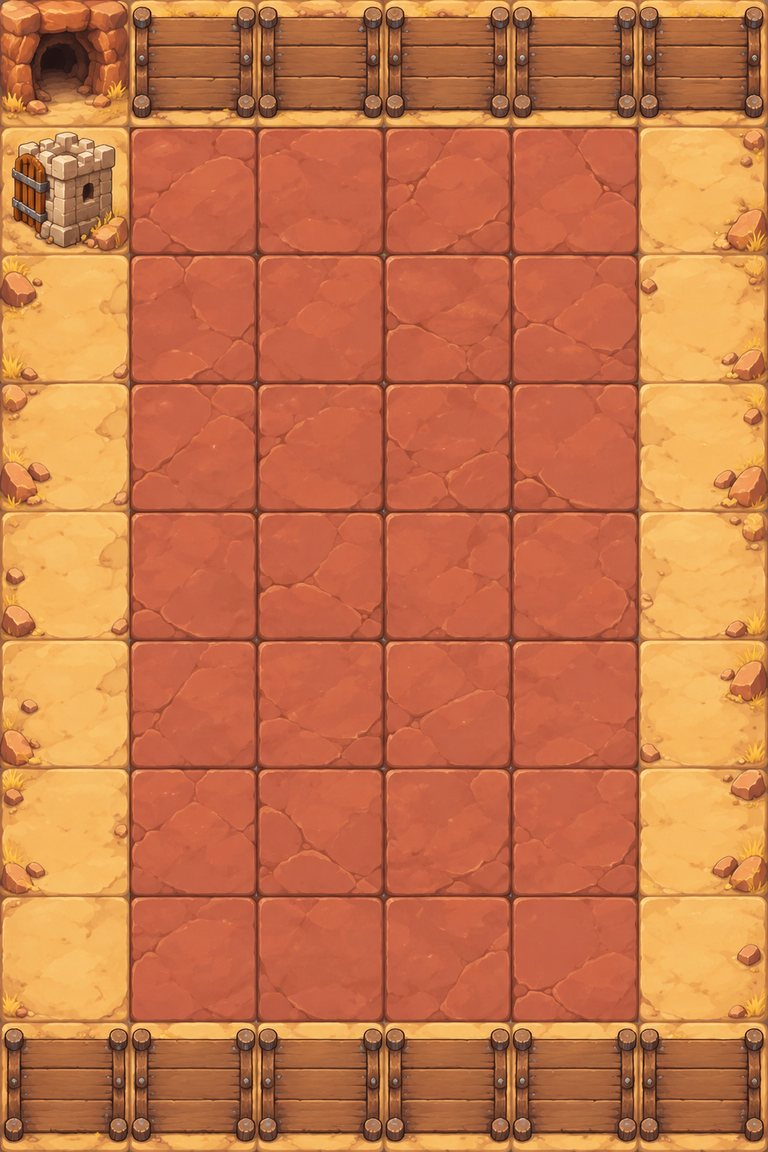
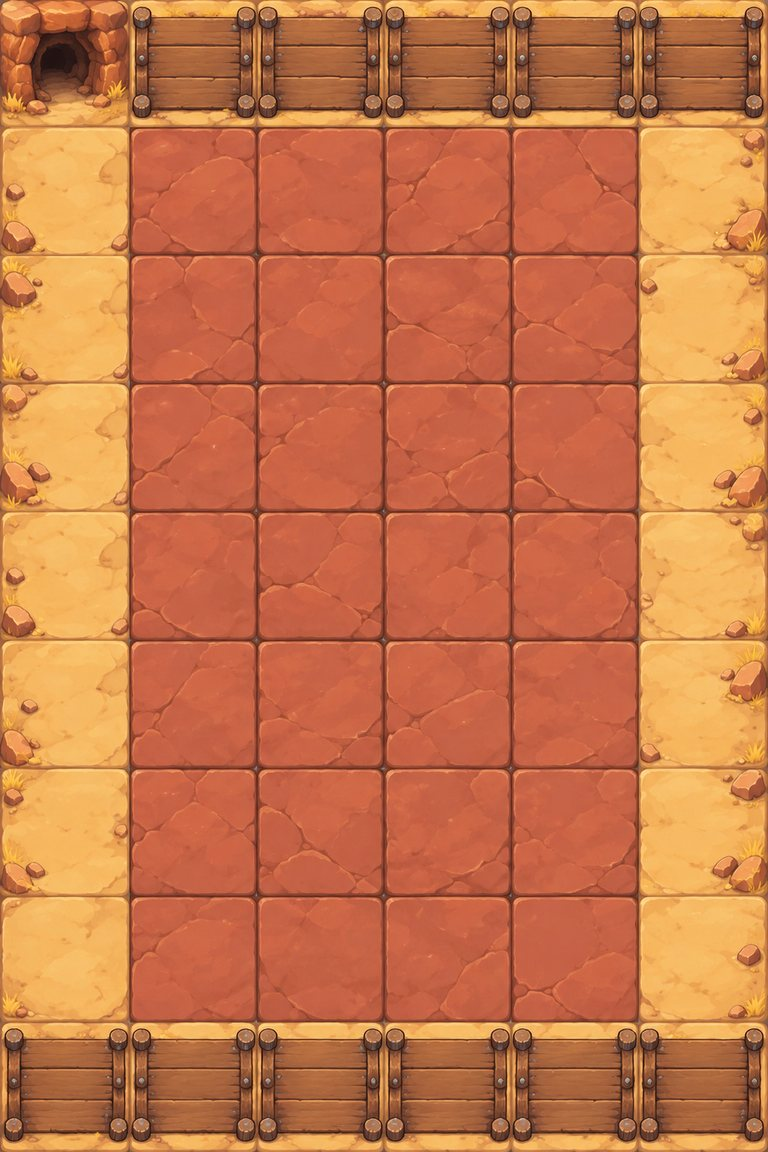
출구 성문 제거(4개 맵), 적은 입구 동굴로 다시 들어가며 사라짐
Claude-Session: https://claude.ai/code/session_016SVveaDtD2bukLAWUUxhBt

Claude-Session: https://claude.ai/code/session_016SVveaDtD2bukLAWUUxhBt

Changed region(s): [[0.0, 0.0938, 0.1875, 0.2188]]

diff --git a/index.html b/index.html
@@ -539,7 +539,7 @@ const GRID=[],RECTS=[],PATH=[],SEG=[],SLOTS=[];let PATHLEN=0,SPEED_K=1;
 function buildBoard(){
   GRID.length=0;for(let y=0;y<ROWS;y++)GRID.push(y<2||y>=ROWS-2?"#".repeat(COLS):"##"+"P".repeat(COLS-4)+"##");
   RECTS.length=0;RECTS.push([2,2,COLS-4,ROWS-4]);
-  const rp=[[1,1],[COLS-1,1],[COLS-1,ROWS-1],[1,ROWS-1],[1,2.3]];/* ends inside the exit gate (the cell under the entrance) */PATH.length=0;for(const p of rp)PATH.push([p[0]*WT,p[1]*WT]);
+  const rp=[[1,1],[COLS-1,1],[COLS-1,ROWS-1],[1,ROWS-1],[1,1.5]];/* no exit gate: monsters walk back into the entrance cave */PATH.length=0;for(const p of rp)PATH.push([p[0]*WT,p[1]*WT]);
   SEG.length=0;PATHLEN=0;for(let i=0;i<PATH.length-1;i++){const a=PATH[i],b=PATH[i+1],l=Math.hypot(b[0]-a[0],b[1]-a[1]);SEG.push({a,b,l,s:PATHLEN});PATHLEN+=l}
   SPEED_K=0.43; // tuned by bot simulation to match the original early-game difficulty
   SLOTS.length=0;for(const[x,y,w,h]of RECTS)for(let sy=y;sy<y+h;sy+=2)for(let sx=x;sx<x+w;sx+=2)SLOTS.push({x:(sx+1)*WT,y:(sy+1)*WT,tower:null});
@@ -1215,7 +1215,7 @@ function render(){
   for(const f of S.fx)drawFx(c,f);
 }
 function drawMon(c,m,time){
-  const fade=Math.min(1,(PATHLEN-m.d)/40);if(fade<1){c.save();c.globalAlpha=Math.max(0,fade);drawMon0(c,m,time);c.restore();return}drawMon0(c,m,time)}
+  const fade=Math.min(1,(PATHLEN-m.d)/56);if(fade<1){c.save();c.globalAlpha=Math.max(0,fade);drawMon0(c,m,time);c.restore();return}drawMon0(c,m,time)}
 function drawMon0(c,m,time){
   const r=monR(m)*K*1.45*(MQ.matches?1.1:1)*(m.def.boss?1.6:1)*(m.kind==="mission"?1.4:1),x=m.x*K,y=m.y*K;
   c.save();c.translate(x,y);
